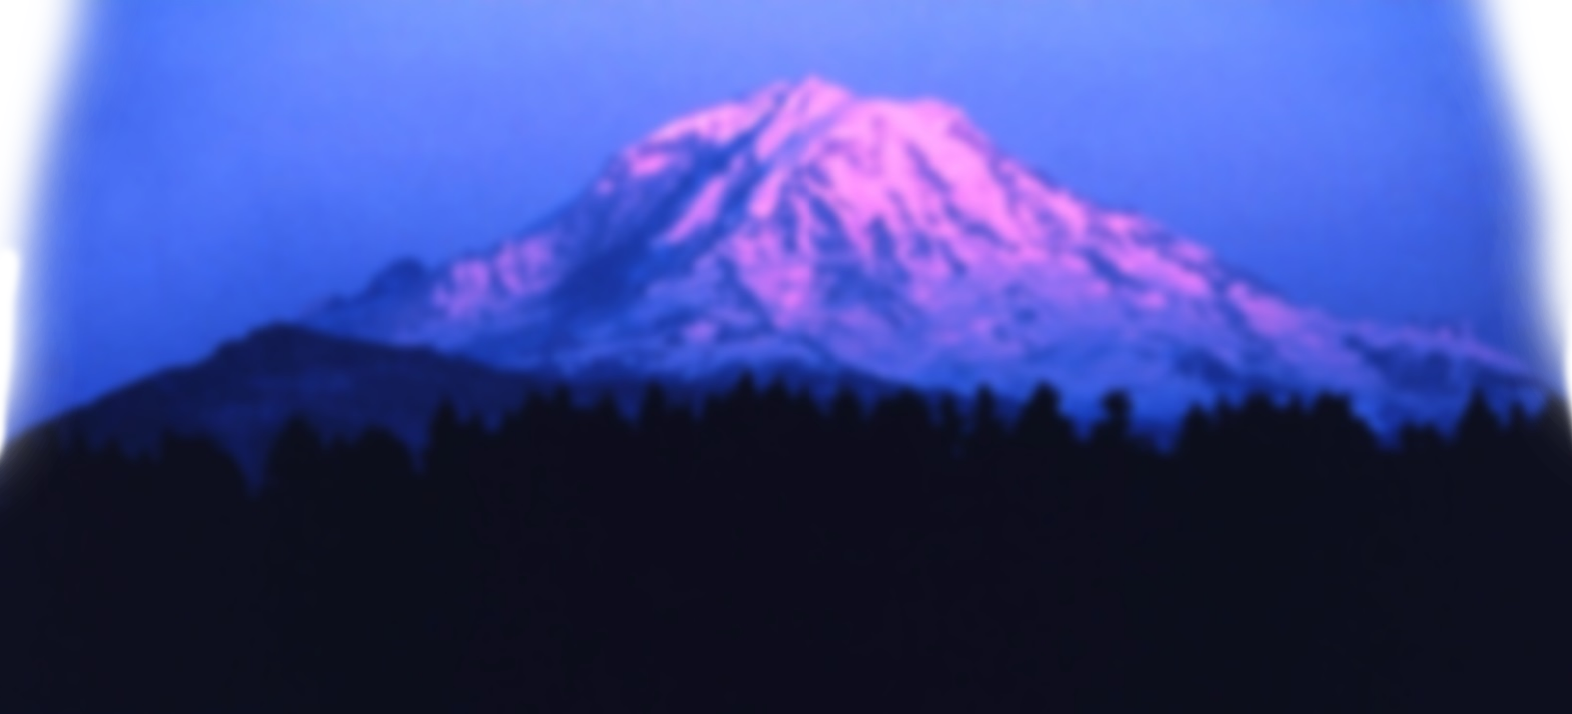
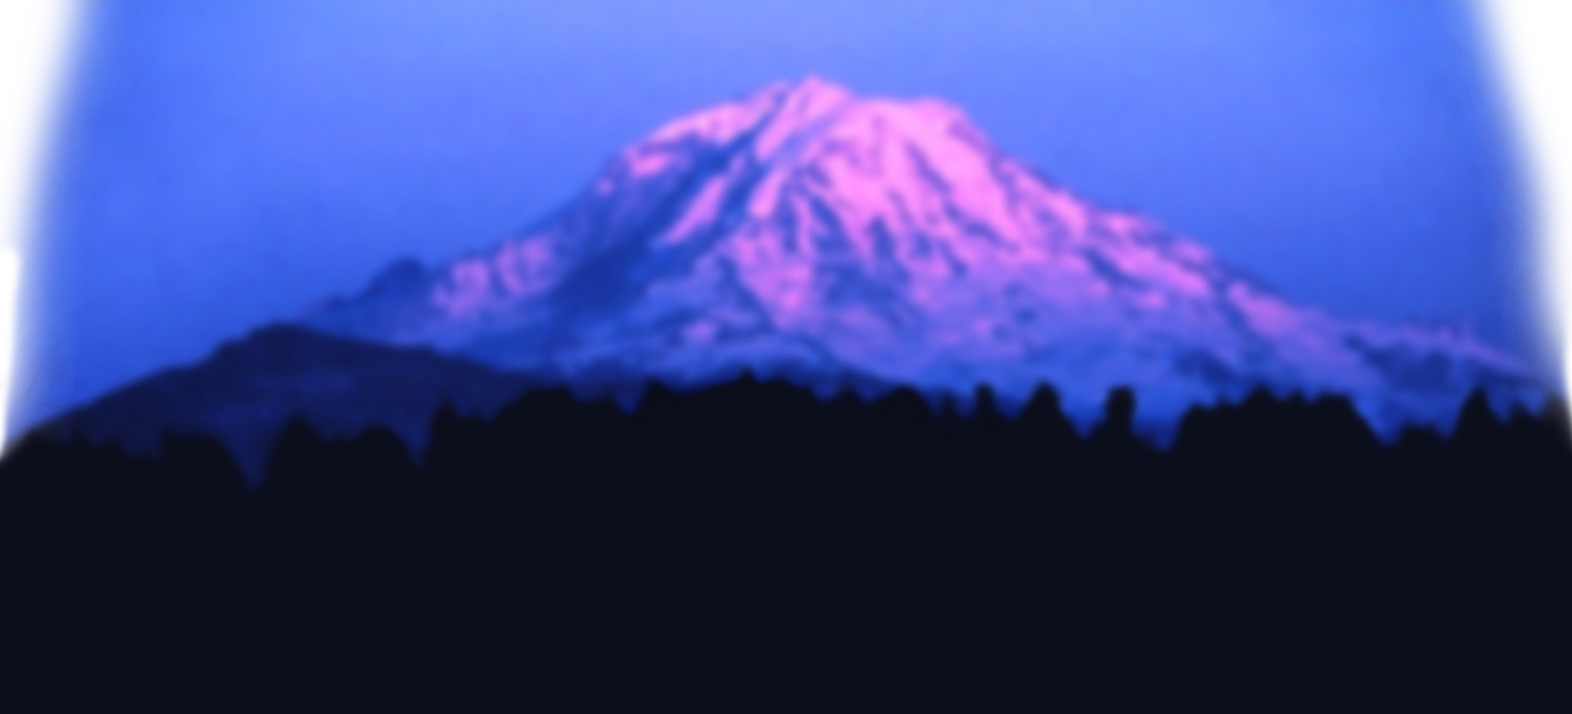
minor improvements

diff --git a/style.css b/style.css
@@ -1,11 +1,11 @@
 html {
 	background: url("images/mountain blurred no edge.png") no-repeat center center fixed, 
-	url("images/blurred edges.png") repeat-x top left,
-	url("images/treeline blurred.png") repeat-x bottom left;
-	-webkit-background-size: cover;
-	-moz-background-size: cover;
-	-o-background-size: cover;
-	background-size: cover;
+	url("images/blurred edges.png") repeat-x top left;
+	-webkit-background-size: auto 100%;
+	-moz-background-size: auto 100%;
+	-o-background-size: auto 100%;
+	background-size: auto 100%;
+	background-color: #0B0E1B;
 }
 body {
 	font-weight: 300;
